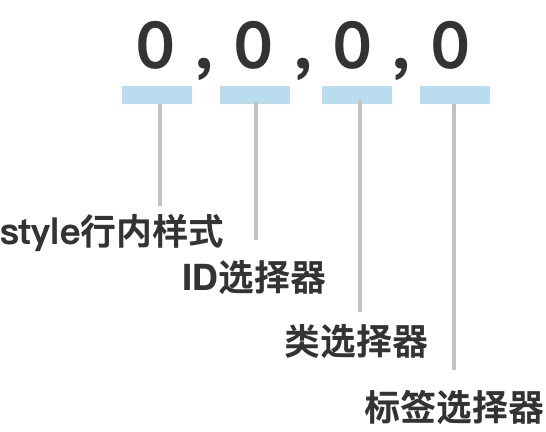
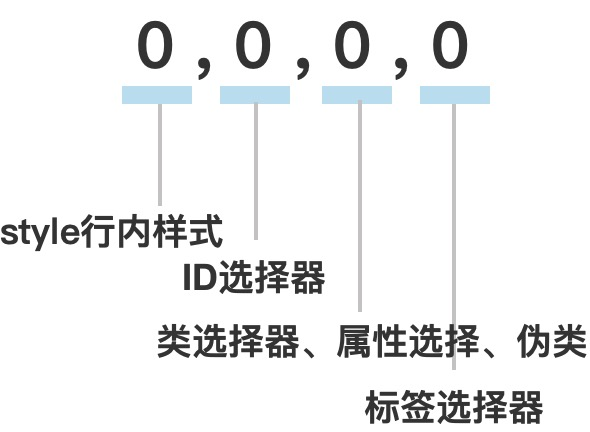
feat: 新增浏览器中css的分配原理
1、新增浏览器中css的分配原理

diff --git a/source/_posts/how-to-distribute-css-in-browser.md b/source/_posts/how-to-distribute-css-in-browser.md
@@ -24,18 +24,54 @@ cover_picture: 浏览器中的css工作机制封面.jpeg
 ![css中的拆分逻辑](css中的拆分逻辑.png)
 
 #### 基础概念
+要了解关于css中的应用规则，首先需要掌握一下几个基本的概念
 
 ##### 特指度(specificity)
+> 选择符的特指度有选择符本身的组成部分决定，一个特指度值由4部分组成：0，0，0，0
 
 对应特指度中的每一位的对应关系图如下：
 ![css中的特指度](css中的特指度.png)
 
+有以下一个例子可供学习关于特指度：
+```css
+    html > body table > tr[id="totals"] td ul > li{
+        color: #2aa198;
+    }
+```
+上述例子中的特指度为：0，0，1，7
+
+🤔 为毛浏览器代理要打散原本已经组合而成的规则为单个单独的规则呢？
+👉 如果有多个同个属性规则同时作用于同一个节点，那么**特指度高**的则胜出，作为最终的结果展示。
+
+✨ 通用选择符的特指度：*，其特指度的值为：0,0,0,0，这里需要注意，它与没有特指度是完全不同的，它是优先级角度的特指度！！！
+
 ##### 层叠(cascade)
+> CSS采用层叠机制将样式组合在一起，也就是结合继承和特指度的一些规则，一般有以下的一个流程：
+
+1. 找到匹配的特定元素的规则；
+2. 优先以`!important`为主；
+3. 按照来源(创作人员、读者、用户代理)排序；
+4. 按照特指度值大小优先排序；
+5. 对于同一个特指度值的则按照先后顺序，后定义的覆盖到前面定义的。
 
 ##### 继承(inherit)
+> 继承指某些样式属性不但应用到所对应的节点元素上，还作用于其后代节点上
 
-##### 重要声明
+✨ 与通用选择符的冲突：一般的如果我们在不设置节点的默认属性时，该节点默认从组件节点中继承一些属性来作为自己的样式展示，但是一旦使用的通用选择符的时候，原本可以通过继承而来的属性，
+在这个时候会被通用选择符所替代。
 
-#### 最佳实践
+👉 一般地，在声明的权重上，需要考虑以下从高到底的权重顺序：
+1. 读者提供的样式中以`!important`标记的声明；
+2. 创作人员编写的样式中以`!important`标记的声明；
+3. 创作人员编写的常规声明；
+4. 读者提供的常规声明；
+5. 用户代理的默认声明。
+
+##### 重要声明(!important)
+> 有时，某个声明可能非常重要，需要设置为超过所有的声明，因此，需要在对应的属性值后添加`!important`
 
 ### 存在疑问🤔
+🤔读者提供的样式、创作人员提供的样式、用户代理提供的样式，三者分别代表的什么？
+1. 读者提供的样式：用户通过浏览器提供的接口来设置的称为读者样式；
+2. 创作人员提供的样式：开发者编写的样式；
+3. 用户代理提供的样式：浏览器自身默认提供的默认样式
